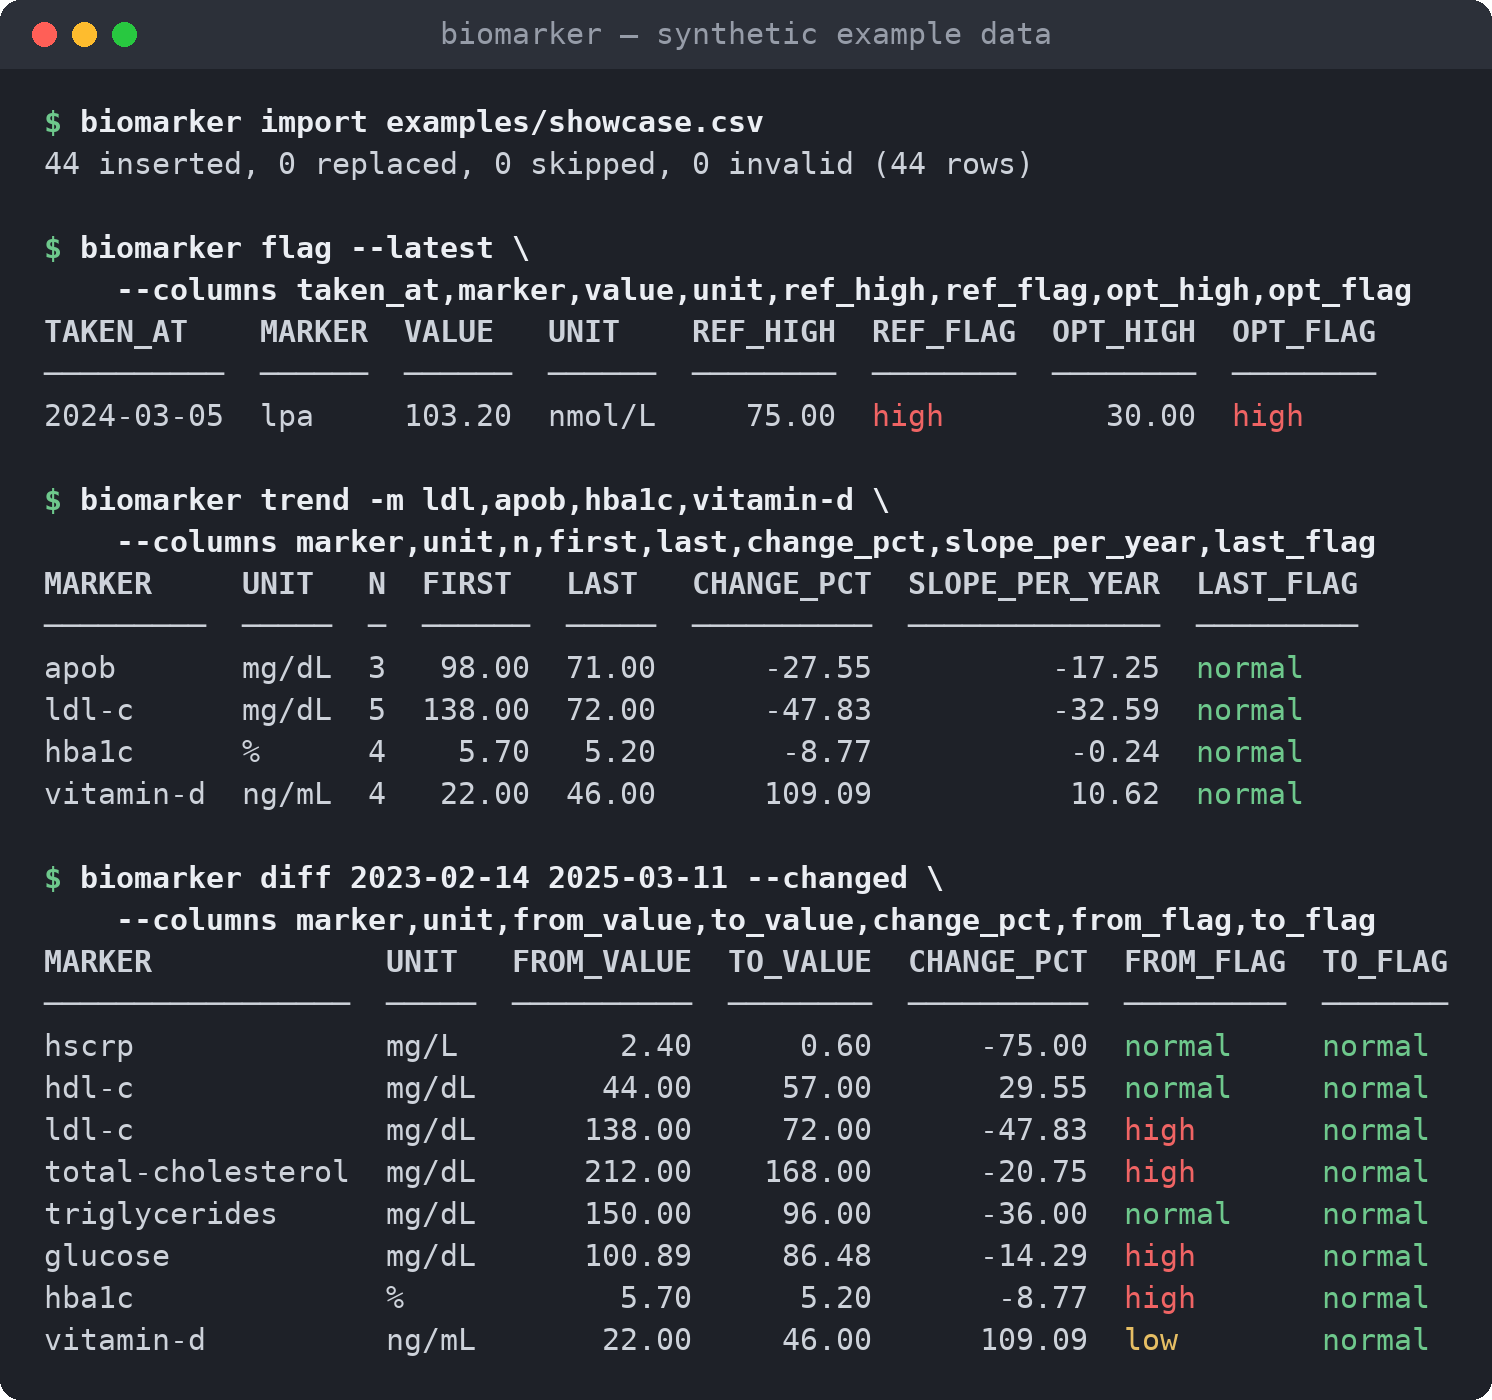
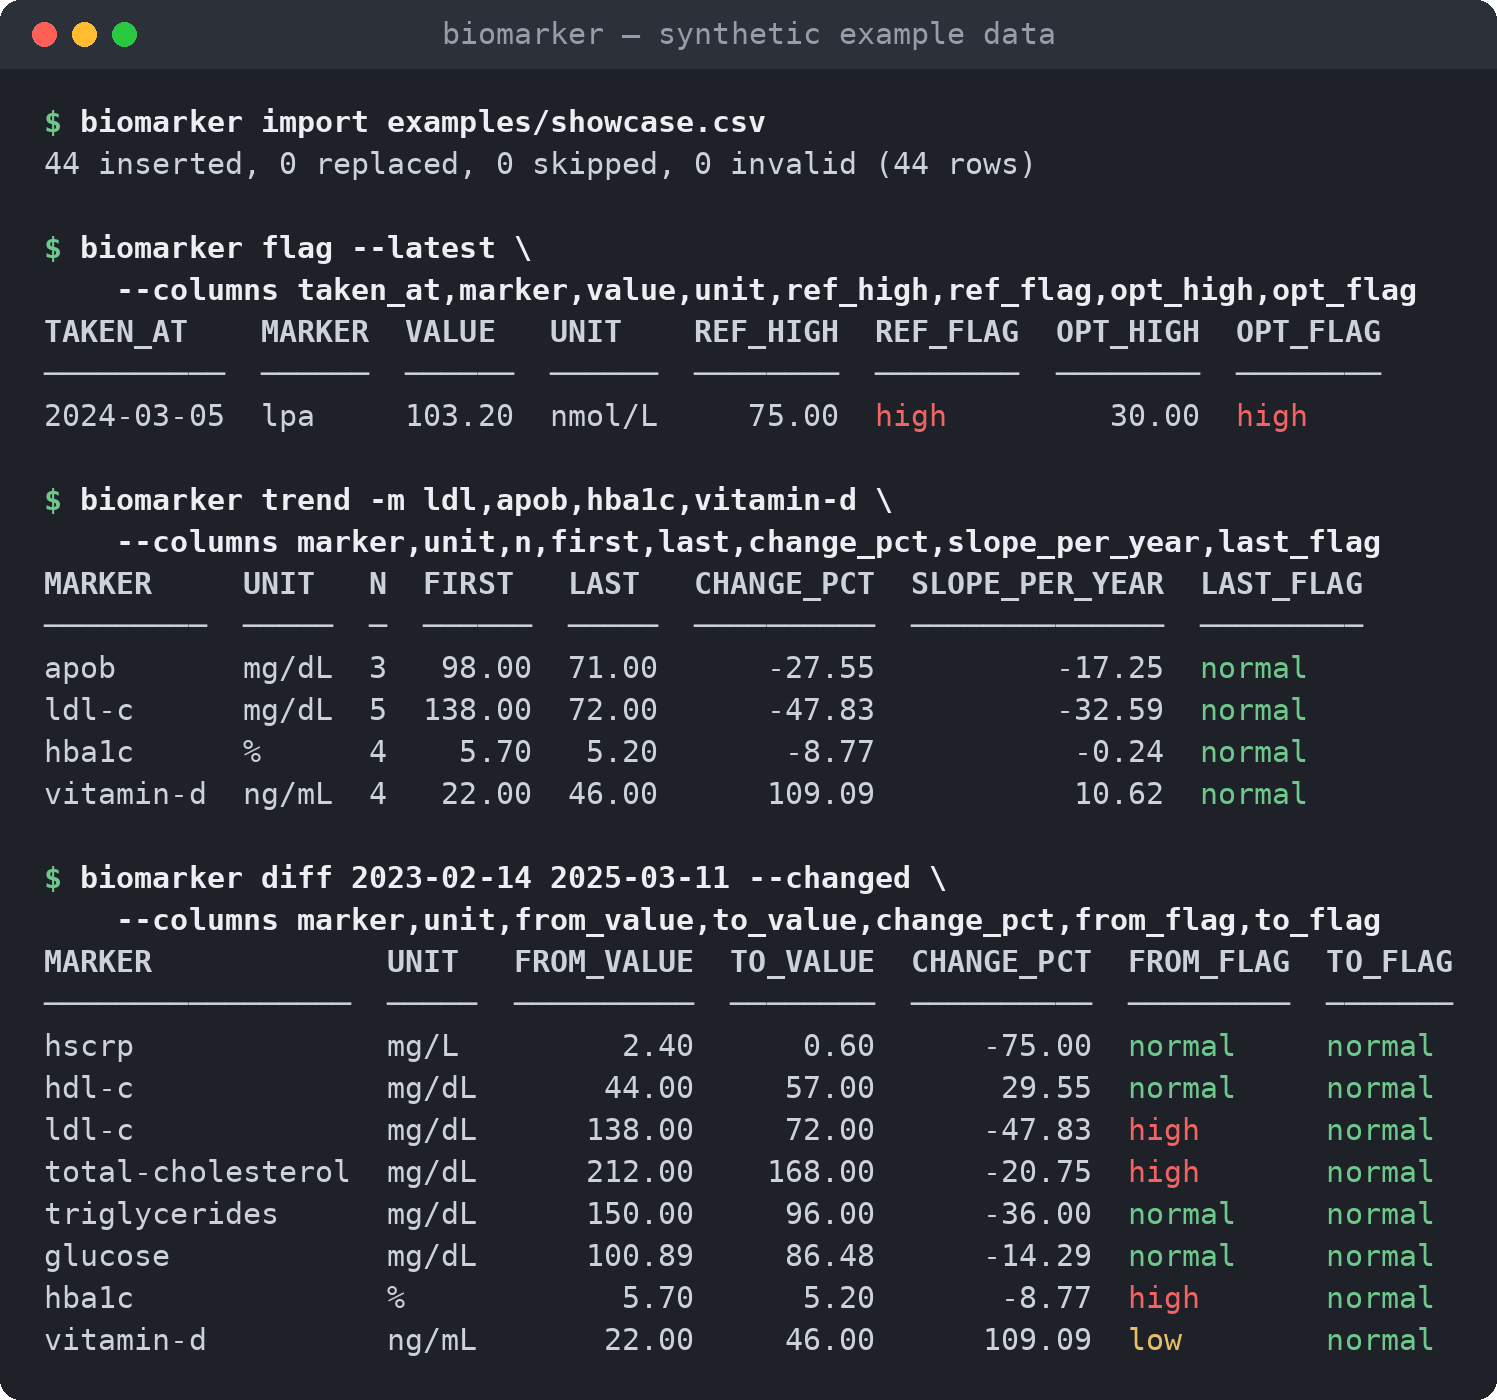
test: rebuild the v0.7.2 database fixture in-test and update catalog expectations
The tests/fixtures/v0.7.2.db fixture was never committed (*.db is ignored);
build it from the frozen v0.7.2 schema and seed data instead. Update goldens,
README samples and assertions that assumed the 71-marker uncited catalog.

diff --git a/tests/catalog.rs b/tests/catalog.rs
@@ -25,7 +25,8 @@ impl Env {
         Self { dir, db, plaintext: false }
     }
 
-    /// A copy of the database a v0.7.2 binary wrote (tests/fixtures/v0.7.2.db):
+    /// A database as v0.7.2 left it, rebuilt from the frozen v0.7.2 schema and
+    /// seed data (migrations 1-6, pruned to the 71 markers v0.7.2 shipped):
     /// people alex (male, 1985-06-01) and kim (female); glucose 104 and HDL 42
     /// for alex on 2024-01-01, LDL 95 for kim on 2024-02-01; `range set hdl
     /// --sex male --age-min 50 --low 45`, `range set ldl --kind optimal --high 60`
@@ -33,8 +34,13 @@ impl Env {
     fn v072() -> Self {
         let mut e = Self::new();
         e.db = e.dir.path().join("v0.7.2.db");
-        let fixture = Path::new(env!("CARGO_MANIFEST_DIR")).join("tests/fixtures/v0.7.2.db");
-        std::fs::copy(fixture, &e.db).unwrap();
+        let p = e.db.clone();
+        std::thread::Builder::new()
+            .stack_size(256 * 1024 * 1024)
+            .spawn(move || write_v072(&p))
+            .unwrap()
+            .join()
+            .unwrap();
         e.plaintext = true;
         e
     }
@@ -86,6 +92,48 @@ impl Env {
     }
 }
 
+/// Write what a v0.7.2 binary would have: schema version 6 and its rows.
+fn write_v072(path: &Path) {
+    use biomarker_cli::{migrations, seed};
+    let db = biomarker_cli::db::Db::open_plain(path).unwrap();
+    migrations::applied(&db).unwrap();
+    for m in migrations::MIGRATIONS.iter().filter(|m| m.version <= 6) {
+        (m.apply)(&db).unwrap();
+        db.execute(
+            "INSERT INTO schema_migrations (version, name, applied_at) VALUES (?1, ?2, '2024-01-01T00:00:00Z')",
+            &[biomarker_cli::db::int(m.version), biomarker_cli::db::text(m.name)],
+        )
+        .unwrap();
+    }
+    let legacy = seed::LEGACY_SLUGS.iter().map(|s| format!("'{s}'")).collect::<Vec<_>>().join(", ");
+    let newer = format!("SELECT id FROM markers WHERE slug NOT IN ({legacy})");
+    db.execute_batch(&format!(
+        "DELETE FROM marker_aliases WHERE marker_id IN ({newer});
+         DELETE FROM unit_conversions WHERE marker_id IN ({newer});
+         DELETE FROM ranges WHERE marker_id IN ({newer});
+         DELETE FROM markers WHERE slug NOT IN ({legacy});
+         INSERT INTO people (slug, sex, dob, created_at) VALUES ('alex', 'male', '1985-06-01', '2024-01-01T00:00:00Z');
+         INSERT INTO people (slug, sex, created_at) VALUES ('kim', 'female', '2024-01-01T00:00:00Z');
+         INSERT INTO measurements (person_id, marker_id, taken_at, value_raw, unit_raw, value, created_at)
+           SELECT p.id, m.id, '2024-01-01', 104, 'mg/dL', 104, '2024-01-01T00:00:00Z' FROM people p, markers m
+           WHERE p.slug = 'alex' AND m.slug = 'glucose';
+         INSERT INTO measurements (person_id, marker_id, taken_at, value_raw, unit_raw, value, created_at)
+           SELECT p.id, m.id, '2024-01-01', 42, 'mg/dL', 42, '2024-01-01T00:00:00Z' FROM people p, markers m
+           WHERE p.slug = 'alex' AND m.slug = 'hdl-c';
+         INSERT INTO measurements (person_id, marker_id, taken_at, value_raw, unit_raw, value, created_at)
+           SELECT p.id, m.id, '2024-02-01', 95, 'mg/dL', 95, '2024-02-01T00:00:00Z' FROM people p, markers m
+           WHERE p.slug = 'kim' AND m.slug = 'ldl-c';
+         INSERT INTO ranges (marker_id, kind, sex, age_min, age_max, low, note)
+           SELECT id, 'reference', 'male', 50, 200, 45, 'synthetic 50+' FROM markers WHERE slug = 'hdl-c';
+         UPDATE ranges SET low = NULL, high = 60, note = NULL
+           WHERE marker_id = (SELECT id FROM markers WHERE slug = 'ldl-c') AND kind = 'optimal' AND sex = 'any';
+         INSERT INTO person_ranges (person_id, marker_id, kind, high)
+           SELECT p.id, m.id, 'reference', 90 FROM people p, markers m WHERE p.slug = 'kim' AND m.slug = 'glucose';
+         PRAGMA user_version = 6;"
+    ))
+    .unwrap();
+}
+
 fn find<'a>(rows: &'a [Value], marker: &str) -> &'a Value {
     rows.iter().find(|r| r["marker"] == marker).unwrap_or_else(|| panic!("no {marker} in {rows:?}"))
 }
@@ -119,10 +167,12 @@ fn upgrades_a_v0_7_2_database_and_keeps_its_flags() {
     assert!(ldl["range_set"]["optimal"]["id"].is_i64(), "a database row: {}", ldl["range_set"]);
     assert_eq!(ldl["range_set"]["optimal"]["set"], Value::Null);
 
-    // the seeded rows are hidden; the edited ones are listed once
+    // the seeded rows are hidden; the edited ones are listed once, next to the catalog's cited ranges
     let opt = e.data(&["range", "list", "ldl", "--kind", "optimal"]);
-    assert_eq!(opt.len(), 1, "{opt:?}");
-    assert_eq!(opt[0]["high"], 60.0);
+    let db_rows: Vec<&Value> = opt.iter().filter(|r| r["id"].as_i64().is_some_and(|id| id > 0)).collect();
+    assert_eq!(db_rows.len(), 1, "{opt:?}");
+    assert_eq!(db_rows[0]["high"], 60.0);
+    assert!(opt.iter().all(|r| r["legacy"] != true), "the seeded legacy optimal row is hidden: {opt:?}");
     let hdl_ranges = e.data(&["range", "list", "hdl", "--kind", "reference"]);
     assert!(hdl_ranges.iter().any(|r| r["note"] == "synthetic 50+" && r["id"].is_i64()));
     assert!(hdl_ranges.iter().any(|r| r["set"] == "clinical" && r["sex"] == "female" && r["legacy"] == true));
@@ -178,7 +228,8 @@ fn range_sets_marker_overrides_and_config_ranges() {
         "config.toml",
         "range_sets = [\"blueprint\", \"clinical\", \"optimal\"]\n[marker_range_sets]\nldl = [\"optimal\"]\n",
     );
-    assert_eq!(opt("ldl"), (Some(70.0), Some("optimal".into())));
+    // the cited ATP III adult (20+) optimal bound is more specific than the uncited any-age one
+    assert_eq!(opt("ldl"), (Some(100.0), Some("optimal".into())));
     // config [[range]] entries beat every set
     e.write("config.toml", "[[range]]\nmarker = \"glucose\"\nkind = \"optimal\"\nhigh = 5.0\nunit = \"mmol/L\"\n");
     let q = e.data(&["latest", "-p", "pat", "-m", "glucose"]);
@@ -238,7 +289,10 @@ fn catalog_lint_reports_errors_warnings_and_coverage() {
     let built_in: Value = serde_json::from_str(&e.run(&["catalog", "lint", "--universe", "--json"])).unwrap();
     assert_eq!(built_in["data"]["errors"], 0, "{}", built_in["data"]["findings"]);
     assert!(built_in["data"]["warnings"].as_u64().unwrap() > 0, "legacy ranges are uncited");
-    assert_eq!(built_in["data"]["universe"]["missing"].as_array().map(Vec::len), Some(0));
+    // universe entries without a catalog file are warnings, not errors
+    let universe = &built_in["data"]["universe"];
+    let missing = universe["missing"].as_array().map_or(0, Vec::len) as u64;
+    assert_eq!(universe["covered"].as_u64().unwrap() + missing, universe["entries"].as_u64().unwrap());
     assert_eq!(e.code(&["catalog", "lint", "--strict"]), 4);
 
     let head = "slug = \"x\"\nname = \"X\"\ncategory = \"lipid\"\nunit = \"mg/dL\"\ndescription = \"Synthetic.\"\n";
@@ -316,5 +370,6 @@ fn schema_and_sets_are_published() {
     assert_eq!(schema["required"], serde_json::json!(["slug", "name", "category", "unit"]));
     let sets = e.data(&["catalog", "sets"]);
     let names: Vec<&str> = sets.iter().map(|s| s["name"].as_str().unwrap()).collect();
-    assert_eq!(names, ["clinical", "optimal", "blueprint"]);
+    assert_eq!(names[..3], ["clinical", "optimal", "blueprint"]);
+    assert!(names.contains(&"population-ri") && names.iter().any(|n| n.starts_with("alt-")));
 }

diff --git a/tests/import_sheet.rs b/tests/import_sheet.rs
@@ -183,15 +183,16 @@ fn stop_at_ignores_the_named_row_and_everything_below() {
     let e = Env::new();
     let mapping = e.path("stop.toml");
     std::fs::write(&mapping, "stop_at = \"Urinalysis\"\n").unwrap();
+    let slugs = || -> Vec<String> {
+        let list = e.json(&["marker", "list"]);
+        list["data"].as_array().unwrap().iter().map(|m| m["slug"].as_str().unwrap().to_string()).collect()
+    };
+    let before = slugs();
     let (_, stderr) =
         e.run_io(&["import", &e.workbook(), "-p", "alex", "--create-markers", "--mapping", mapping.to_str().unwrap()]);
     assert!(stderr.contains("stop_at"), "{stderr}");
-    let created: Vec<String> = e.json(&["marker", "list"])["data"]
-        .as_array()
-        .unwrap()
-        .iter()
-        .map(|m| m["slug"].as_str().unwrap().to_string())
-        .collect();
+    // the catalog has urine markers of its own: look only at the ones the import created
+    let created: Vec<String> = slugs().into_iter().filter(|s| !before.contains(s)).collect();
     assert!(!created.iter().any(|s| s.starts_with("urine") || s.contains("urine")), "{created:?}");
     assert!(created.iter().any(|s| s == "lipoprotein-particle-score"), "rows above the stop are imported");
 }
@@ -294,10 +295,11 @@ fn mapping_renames_dates_and_skip() {
     let d = &v["data"];
     assert_eq!(d["inserted"], 43, "{v}");
     assert_eq!(d["skipped_names"], serde_json::json!(["Lipoprotein Particle Score", "Control Sample"]));
-    assert_eq!(d["markers_created"], serde_json::json!(["urine-protein", "urine-appearance", "urine-wbc"]));
+    // "WBC, Urine" matches the catalog's urine-wbc
+    assert_eq!(d["markers_created"], serde_json::json!(["urine-protein", "urine-appearance"]));
     assert_eq!(d["date_corrections"], serde_json::json!([{"from": "2024-12-02", "to": "2024-12-04", "cells": 13}]));
     assert!(d["cells_per_date"].get("2024-12-02").is_none());
-    assert_eq!(e.json(&["marker", "show", "urine-wbc"])["data"]["category"], "urine");
+    assert_eq!(e.json(&["marker", "show", "urine-protein"])["data"]["category"], "urine");
     assert_eq!(e.query("ldl-c")[2]["taken_at"], "2024-12-04");
     // "6-10 Abnormal" keeps its range on the observation
     let obs = e.json(&["observations", "-m", "urine-wbc", "--flagged"]);

diff --git a/src/catalog/lint.rs b/src/catalog/lint.rs
@@ -456,7 +456,8 @@ mod tests {
         let r = lint(&Sources::embedded(), &crate::seed::unit_symbols(), true, false);
         assert!(r.ok(), "{:#?}", r.findings.iter().filter(|f| f.severity == Severity::Error).collect::<Vec<_>>());
         assert!(r.warnings > 0, "legacy ranges are uncited");
-        assert_eq!(r.universe.as_ref().map(|u| u.missing.len()), Some(0));
+        let u = r.universe.as_ref().unwrap();
+        assert!(u.covered > 0 && u.covered + u.missing.len() == u.entries, "universe gaps are warnings");
     }
 
     #[test]

diff --git a/tests/status.rs b/tests/status.rs
@@ -91,7 +91,8 @@ fn age_at_draw_selects_the_range_and_rows_report_it() {
     assert_eq!(kim["age"], Value::Null);
     assert_eq!(kim["sex"], "female");
     assert_eq!(kim["ref_low"], 50.0);
-    assert_eq!(kim["range_set"]["warn"], Value::Null);
+    // the catalog's cited very-high-HDL bound for women (>= 135 mg/dL)
+    assert_eq!((kim["warn_high"].as_f64(), kim["range_set"]["warn"]["sex"].as_str()), (Some(135.0), Some("female")));
 }
 
 #[test]

diff --git a/src/seed.rs b/src/seed.rs
@@ -162,7 +162,7 @@ fn seed_marker(db: &Db, m: &MarkerDef) -> Result<i64> {
 
 /// The markers v0.7.2 shipped. Migration 7 records them as seen even when
 /// you removed one, so it is not seeded again.
-const LEGACY_SLUGS: &[&str] = &[
+pub const LEGACY_SLUGS: &[&str] = &[
     "albumin",
     "alp",
     "alt",

diff --git a/README.md b/README.md
@@ -64,7 +64,7 @@ hdl-c              mg/dL       44.00     57.00       29.55  normal     normal
 ldl-c              mg/dL      138.00     72.00      -47.83  high       normal
 total-cholesterol  mg/dL      212.00    168.00      -20.75  high       normal
 triglycerides      mg/dL      150.00     96.00      -36.00  normal     normal
-glucose            mg/dL      100.89     86.48      -14.29  high       normal
+glucose            mg/dL      100.89     86.48      -14.29  normal     normal
 hba1c              %            5.70      5.20       -8.77  high       normal
 vitamin-d          ng/mL       22.00     46.00      109.09  low        normal
 
@@ -417,7 +417,7 @@ INDEX  NAME  ROWS  COLUMNS  DIMENSIONS
 $ biomarker import examples/dashboard.xlsx --mapping examples/dashboard-mapping.toml \
     --create-markers --dry-run
 import examples/dashboard.xlsx (xlsx, sheet "Labs", transposed layout, header row 3)
-matched (11):
+matched (12):
   White Blood Cell Count (WBC)      -> wbc
   Red Blood Cell Count (RBC)        -> rbc
   Hemoglobin (Hgb)                  -> hemoglobin
@@ -429,7 +429,8 @@ matched (11):
   Hemoglobin A1c                    -> hba1c
   ALT (SGPT)                        -> alt
   Thyroid Stimulating Hormone (TSH) -> tsh
-created (3): urine-protein, urine-appearance, urine-wbc
+  WBC, Urine                        -> urine-wbc
+created (2): urine-protein, urine-appearance
 skipped by mapping (2): Lipoprotein Particle Score, Control Sample
 qualitative (11, skipped; use --qualitative store to keep them):
   2024-03-01  urine-protein: Negative
@@ -457,7 +458,7 @@ reference ranges from the sheet (12):
   hba1c: 4.8..5.6 %
   alt: 0..44 U/L
   tsh: 0.45..4.5 mIU/L
-  urine-wbc: 0..5 /hpf
+  urine-wbc: 0..5 /HPF
 values per date:
   2024-03-01  11
   2024-08-15  11
